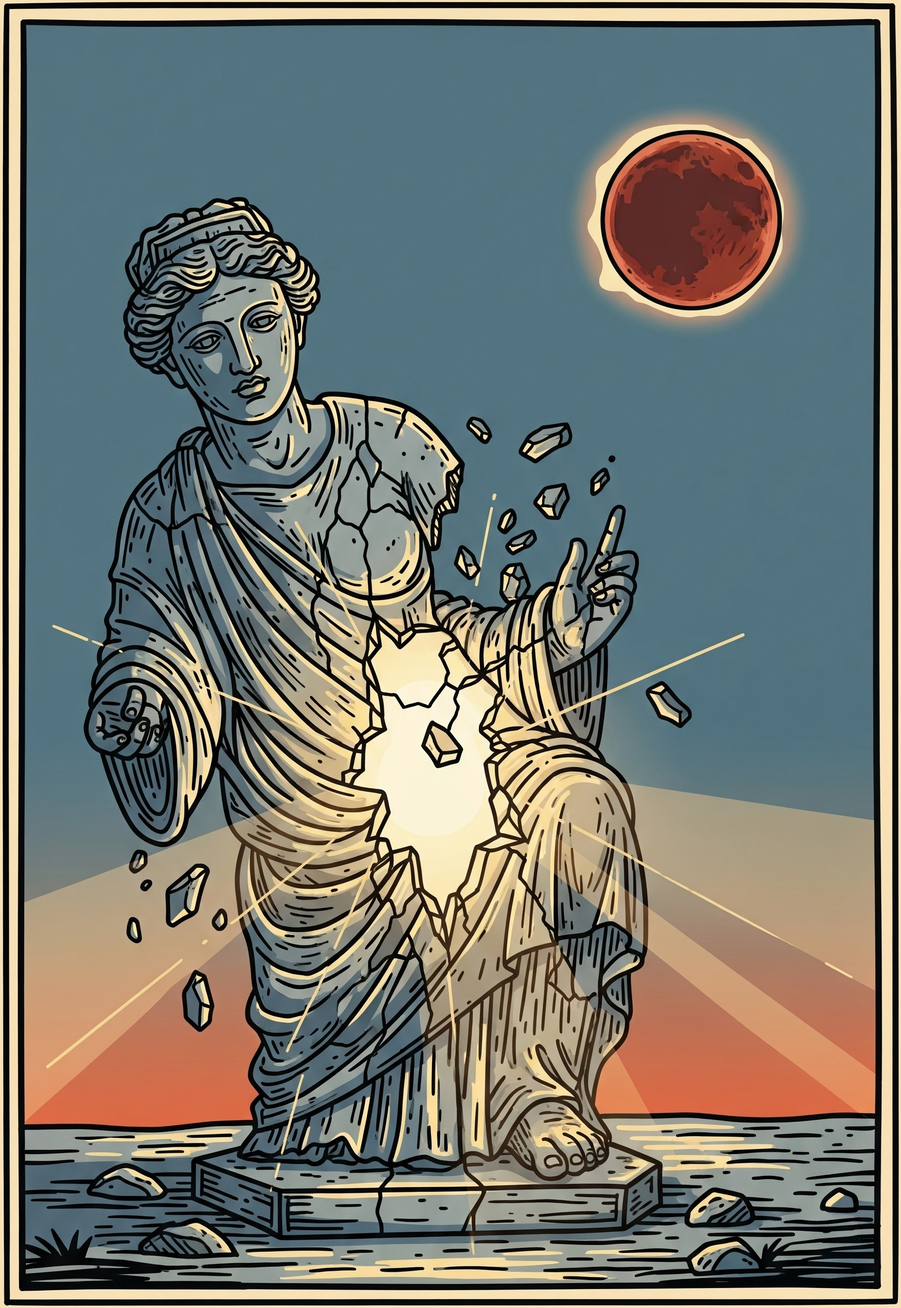
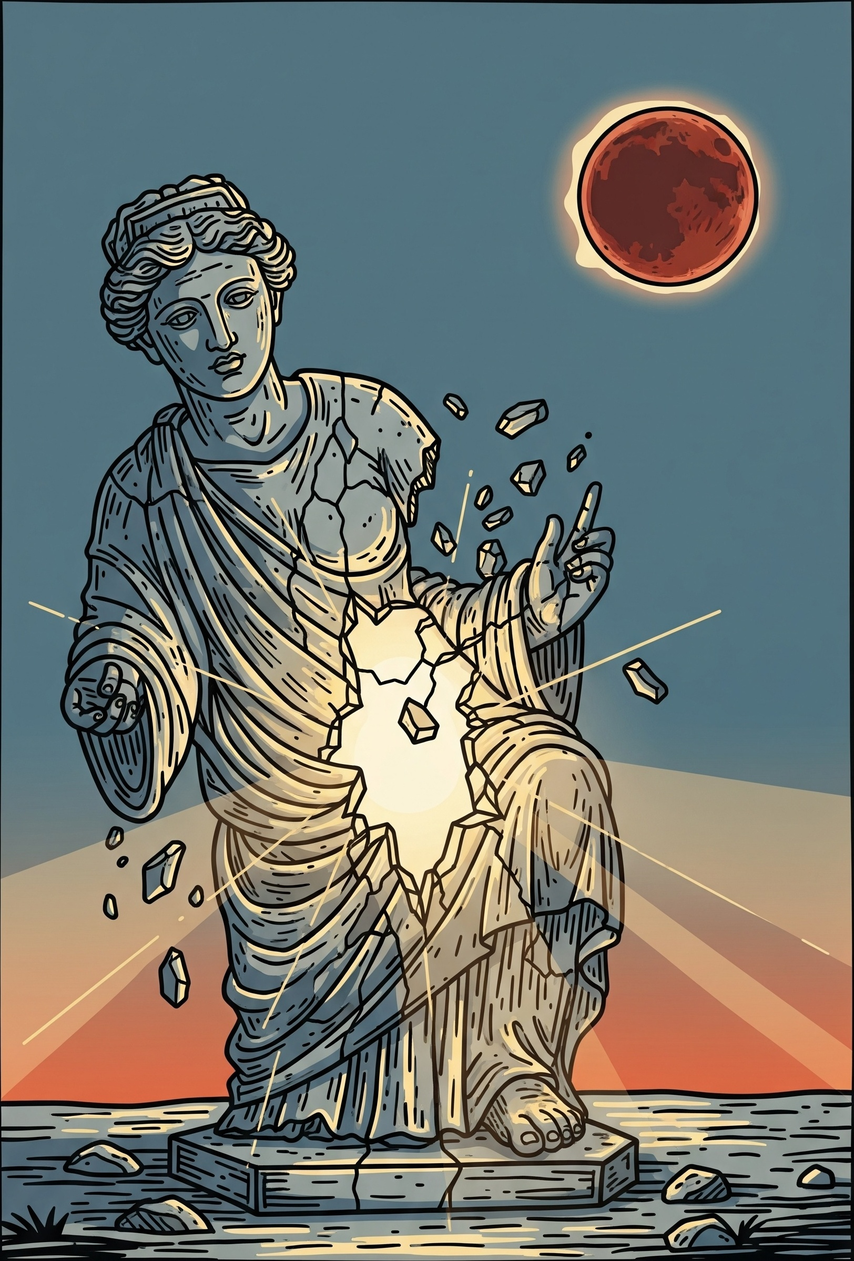
fix: 残りのタロットカード画像の枠を削除
- 三日月: 40px枠を削除
- 月食: 45px枠を削除
- 十六夜: 35px枠を削除
- 月の微笑み: 45px枠を削除
- 月光: 40px余白を削除

デザイン枠も含めて積極的にトリミング

diff --git a/trim_remaining_cards.py b/trim_remaining_cards.py
@@ -1,0 +1,131 @@
+#!/usr/bin/env python3
+"""
+残りのタロットカード画像の余白を積極的にトリミング
+"""
+
+from PIL import Image
+import numpy as np
+import os
+
+def detect_border_color(img_array):
+    """
+    画像の枠の色を検出（四隅の色から判定）
+    """
+    h, w = img_array.shape[:2]
+    
+    # 四隅の色を取得
+    corners = [
+        img_array[0, 0],           # 左上
+        img_array[0, w-1],         # 右上
+        img_array[h-1, 0],         # 左下
+        img_array[h-1, w-1]        # 右下
+    ]
+    
+    # 最も一般的な色を枠の色とする
+    return np.mean(corners, axis=0).astype(int)
+
+def find_content_bounds_aggressive(img_array, border_color, tolerance=40):
+    """
+    画像の実際のコンテンツ境界を見つける（より積極的に）
+    """
+    h, w = img_array.shape[:2]
+    
+    # 各ピクセルと枠色との差を計算
+    diff = np.sqrt(np.sum((img_array - border_color) ** 2, axis=2))
+    
+    # コンテンツがあるピクセルを見つける
+    content_mask = diff > tolerance
+    
+    # 各行・列にコンテンツがあるか確認
+    content_rows = np.any(content_mask, axis=1)
+    content_cols = np.any(content_mask, axis=0)
+    
+    # コンテンツの境界を見つける
+    rows = np.where(content_rows)[0]
+    cols = np.where(content_cols)[0]
+    
+    if len(rows) > 0 and len(cols) > 0:
+        return cols[0], rows[0], cols[-1], rows[-1]
+    
+    return None
+
+def trim_card(image_path):
+    """
+    個別のカード画像をトリミング
+    """
+    img = Image.open(image_path)
+    img_array = np.array(img)
+    
+    filename = os.path.basename(image_path)
+    print(f"\n処理中: {filename}")
+    print(f"  元のサイズ: {img.size}")
+    
+    # 枠の色を検出
+    border_color = detect_border_color(img_array)
+    print(f"  検出された枠色: RGB{tuple(border_color)}")
+    
+    # コンテンツ境界を見つける
+    bounds = find_content_bounds_aggressive(img_array, border_color)
+    
+    if bounds:
+        left, top, right, bottom = bounds
+        
+        # 少し余裕を持たせる（1-2ピクセル）
+        margin = 2
+        left = max(0, left - margin)
+        top = max(0, top - margin)
+        right = min(img.width - 1, right + margin)
+        bottom = min(img.height - 1, bottom + margin)
+        
+        # トリミング幅を確認
+        crop_left = left
+        crop_top = top
+        crop_right = img.width - right - 1
+        crop_bottom = img.height - bottom - 1
+        
+        # 実際にトリミングする価値があるか確認（10ピクセル以上の余白がある場合のみ）
+        if crop_left > 10 or crop_top > 10 or crop_right > 10 or crop_bottom > 10:
+            cropped = img.crop((left, top, right + 1, bottom + 1))
+            
+            # 保存
+            cropped.save(image_path, 'JPEG', quality=95)
+            
+            print(f"  新しいサイズ: {cropped.size}")
+            print(f"  削減: 左={crop_left}px, 上={crop_top}px, 右={crop_right}px, 下={crop_bottom}px")
+            return True
+        else:
+            print(f"  余白が少ないためスキップ（左={crop_left}, 上={crop_top}, 右={crop_right}, 下={crop_bottom}）")
+            return False
+    else:
+        print("  コンテンツ境界が見つかりませんでした")
+        return False
+
+def main():
+    """
+    指定されたカードを処理
+    """
+    base_dir = "/Users/shiraitouma/daniel/line-love-edu/public/images/tarot-cards"
+    
+    # 処理対象のファイル
+    target_files = [
+        "crescent-moon.jpg",   # 三日月
+        "eclipse.jpg",         # 月食
+        "waning-gibbous.jpg",  # 十六夜
+        "moon-smile.jpg",      # 月の微笑み
+        "moonlight.jpg"        # 月光
+    ]
+    
+    processed_count = 0
+    
+    for filename in target_files:
+        file_path = os.path.join(base_dir, filename)
+        if os.path.exists(file_path):
+            if trim_card(file_path):
+                processed_count += 1
+        else:
+            print(f"ファイルが見つかりません: {filename}")
+    
+    print(f"\n完了！ {processed_count}個のファイルをトリミングしました。")
+
+if __name__ == "__main__":
+    main()

diff --git a/force_trim_borders.py b/force_trim_borders.py
@@ -1,0 +1,67 @@
+#!/usr/bin/env python3
+"""
+デザインの枠も含めて強制的にトリミング
+"""
+
+from PIL import Image
+import os
+
+def force_trim_border(image_path, pixels_to_trim=50):
+    """
+    画像の周囲から指定ピクセル分を強制的にトリミング
+    """
+    img = Image.open(image_path)
+    width, height = img.size
+    
+    filename = os.path.basename(image_path)
+    print(f"\n処理中: {filename}")
+    print(f"  元のサイズ: {img.size}")
+    
+    # 新しい境界を計算
+    left = pixels_to_trim
+    top = pixels_to_trim
+    right = width - pixels_to_trim
+    bottom = height - pixels_to_trim
+    
+    # トリミング
+    if left < right and top < bottom:
+        cropped = img.crop((left, top, right, bottom))
+        
+        # 保存
+        cropped.save(image_path, 'JPEG', quality=95)
+        
+        print(f"  新しいサイズ: {cropped.size}")
+        print(f"  各辺から{pixels_to_trim}ピクセルをトリミング")
+        return True
+    else:
+        print(f"  画像が小さすぎてトリミングできません")
+        return False
+
+def main():
+    """
+    特定のカードの枠を強制的にトリミング
+    """
+    base_dir = "/Users/shiraitouma/daniel/line-love-edu/public/images/tarot-cards"
+    
+    # 処理対象のファイルと各ファイルごとのトリミング量
+    target_files = {
+        "crescent-moon.jpg": 40,    # 三日月 - 黒い枠を削除
+        "eclipse.jpg": 45,          # 月食 - ベージュの枠を削除
+        "waning-gibbous.jpg": 35,   # 十六夜 - 黒い枠を削除
+        "moon-smile.jpg": 45,       # 月の微笑み - ベージュと黒の二重枠を削除
+    }
+    
+    processed_count = 0
+    
+    for filename, trim_pixels in target_files.items():
+        file_path = os.path.join(base_dir, filename)
+        if os.path.exists(file_path):
+            if force_trim_border(file_path, trim_pixels):
+                processed_count += 1
+        else:
+            print(f"ファイルが見つかりません: {filename}")
+    
+    print(f"\n完了！ {processed_count}個のファイルをトリミングしました。")
+
+if __name__ == "__main__":
+    main()
